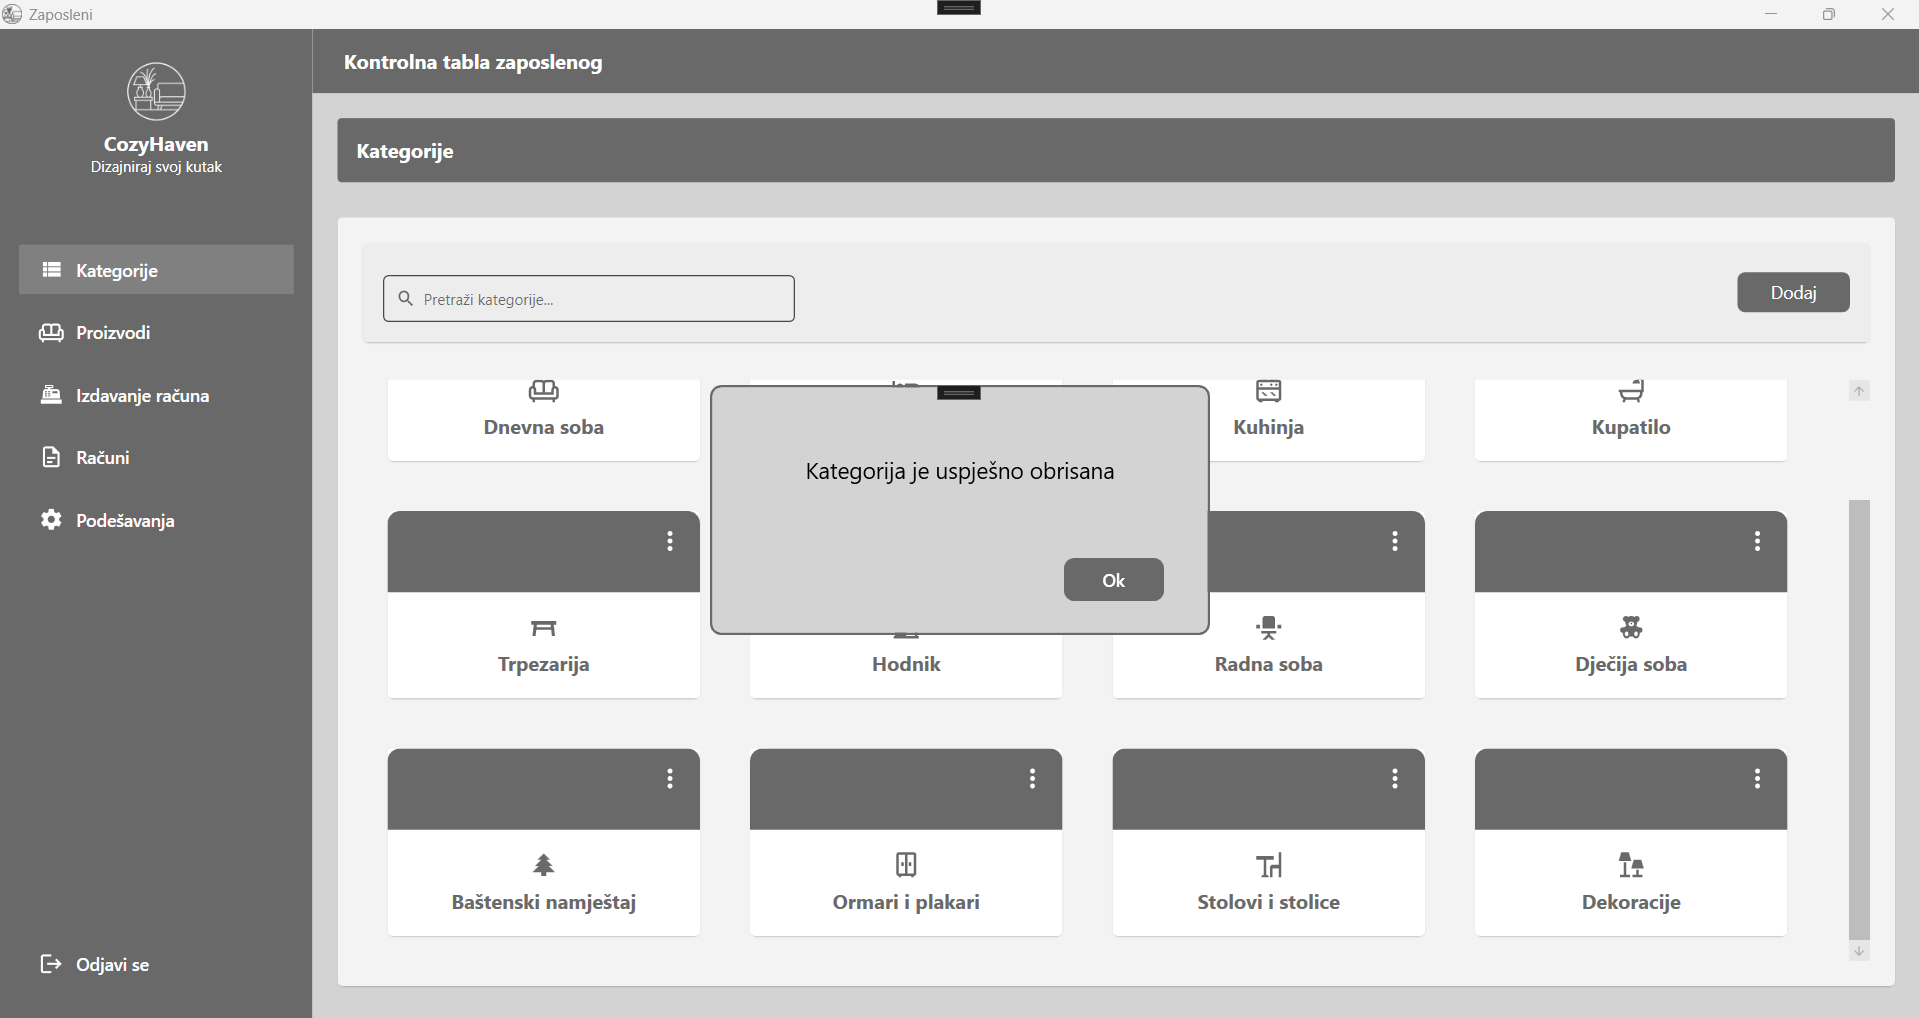
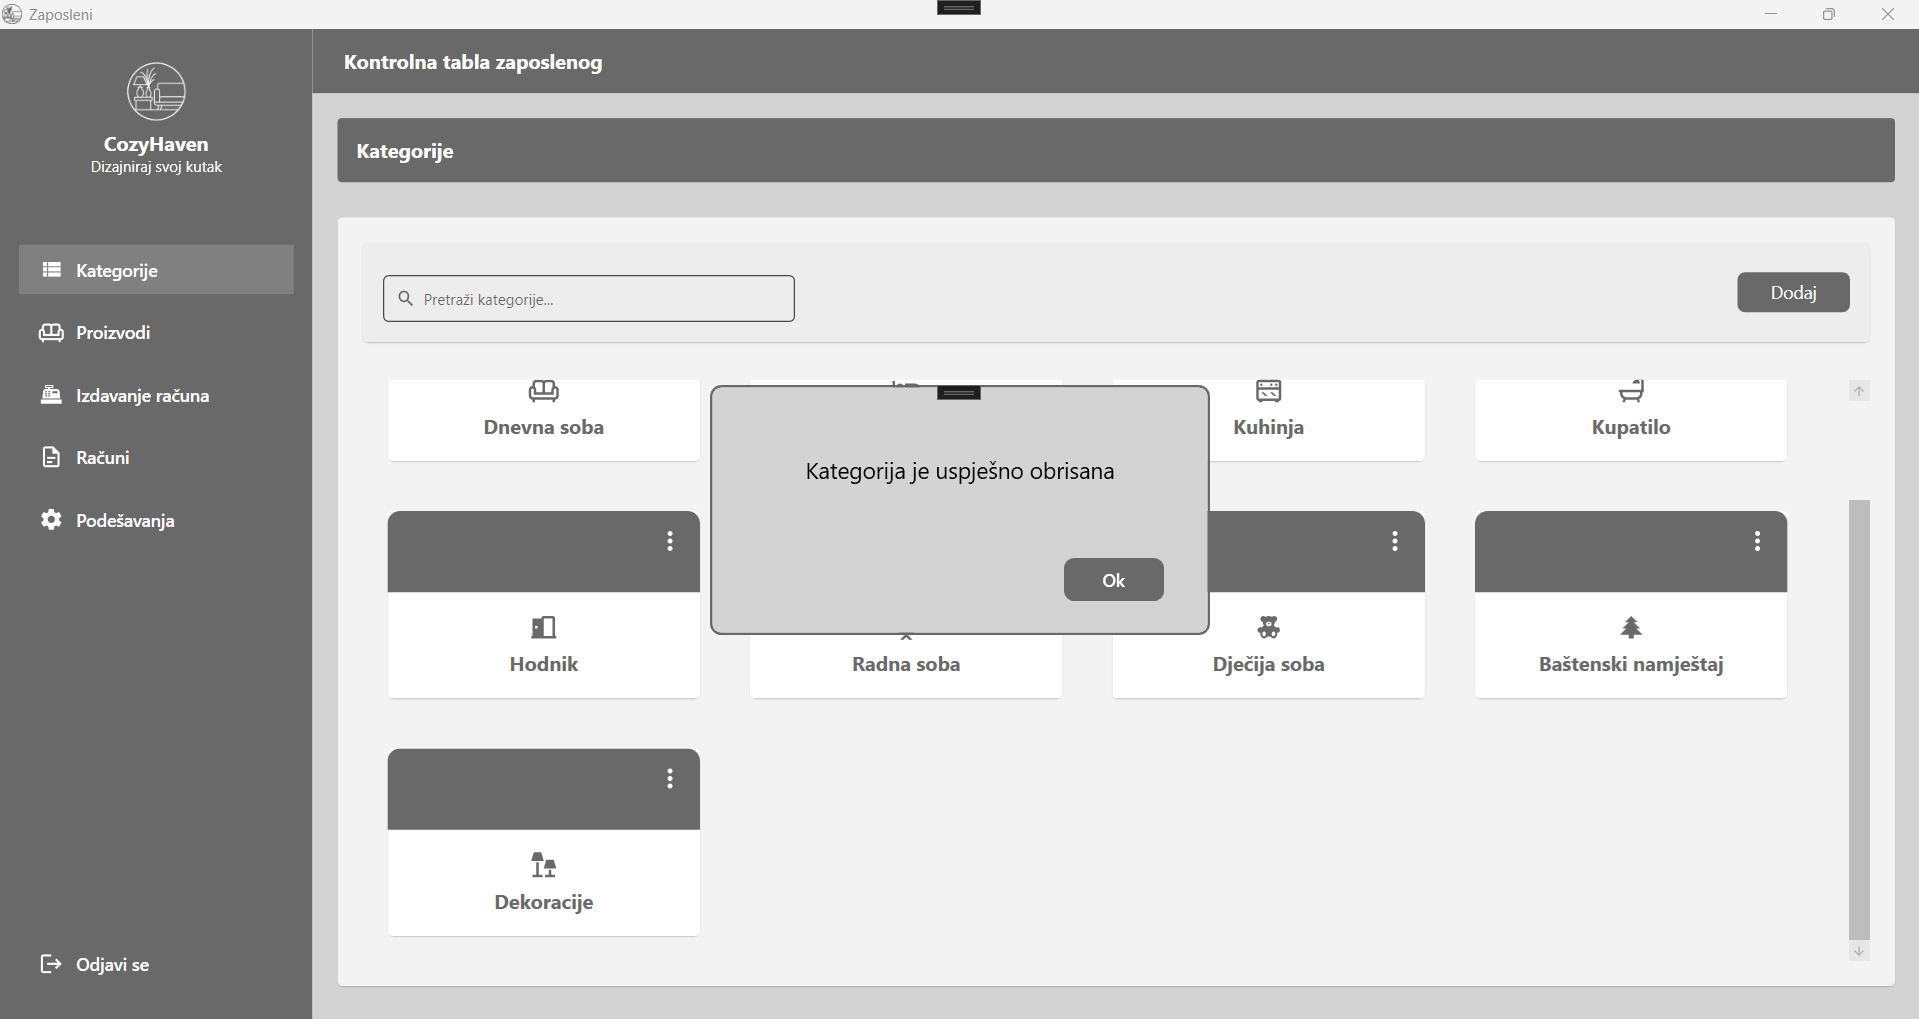
Fix category info

diff --git a/CozyHaven/CozyHaven/Models/Category.cs b/CozyHaven/CozyHaven/Models/Category.cs
@@ -17,14 +17,11 @@ namespace CozyHaven.Models
                     "Spavaća soba" => "Bed",
                     "Kuhinja" => "Stove", 
                     "Kupatilo" => "Shower",
-                    "Trpezarija" => "TableFurniture",
                     "Hodnik" => "DoorOpen",
                     "Radna soba" => "ChairRolling",
                     "Dječija soba" => "TeddyBear",
                     "Baštenski namještaj" => "PineTree", 
                     "Kancelarijski namještaj" => "Desk",
-                    "Ormari i plakari" => "WardrobeOutline",
-                    "Stolovi i stolice" => "TableChair",
                     "Dekoracije" => "Lamps", 
                     _ => "Tag" 
                 };
